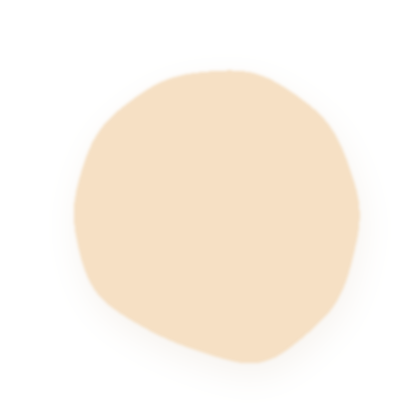
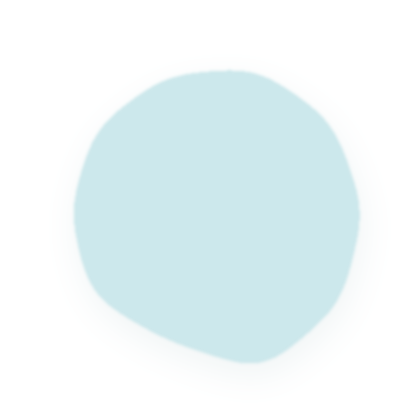
Rendimiento: ícono hecho con Gemini (canasta con frambuesas y gráfico) y burbuja celeste
Claude-Session: https://claude.ai/code/session_01AQtHHbNtiHMaVCGrhptX3t

diff --git a/ui/theme.py b/ui/theme.py
@@ -100,7 +100,7 @@ BLOB_AI = resource_path("assets", "ui", "blob_ai.png")             # burbuja noc
 START_AI_NIGHT = resource_path("assets", "ui", "start_ai_night.png")
 AI_GLOW = resource_path("assets", "ui", "ai_glow.png")
 START_NOTEBOOK = resource_path("assets", "ui", "start_notebook.png")   # cuaderno con frambuesa
-START_YIELD = resource_path("assets", "ui", "start_yield.png")      # canasta con frambuesas (rendimiento)
+START_YIELD = resource_path("assets", "ui", "start_yield.png")      # canasta con frambuesas y gráfico (Gemini)
 BLOB_YIELD = resource_path("assets", "ui", "blob_yield.png")
 BLOB_NOTEBOOK = resource_path("assets", "ui", "blob_notebook.png")
 IAPLUS = resource_path("assets", "ui", "iaplus.png")              # IA+ celeste con aura roja tenue

diff --git a/ui/yield_ui.py b/ui/yield_ui.py
@@ -34,7 +34,7 @@ import rendimiento as R
 from ui import theme
 from ui.theme import c
 
-ACCENT = "#8A4A16"
+ACCENT = "#2F7F92"
 
 
 def app():
@@ -90,7 +90,7 @@ KV = """
             size: self.size
             radius: [dp(16)]
         Color:
-            rgba: c("#8A4A16", .3)
+            rgba: c("#2F7F92", .3)
         Line:
             rounded_rectangle: (self.x, self.y, self.width, self.height, dp(16))
             width: dp(1)
@@ -127,7 +127,7 @@ KV = """
         size_hint_x: None
         width: dp(86)
         theme_text_color: "Custom"
-        text_color: c("#8A4A16")
+        text_color: c("#2F7F92")
 
 <CountRow>:
     size_hint_y: None
